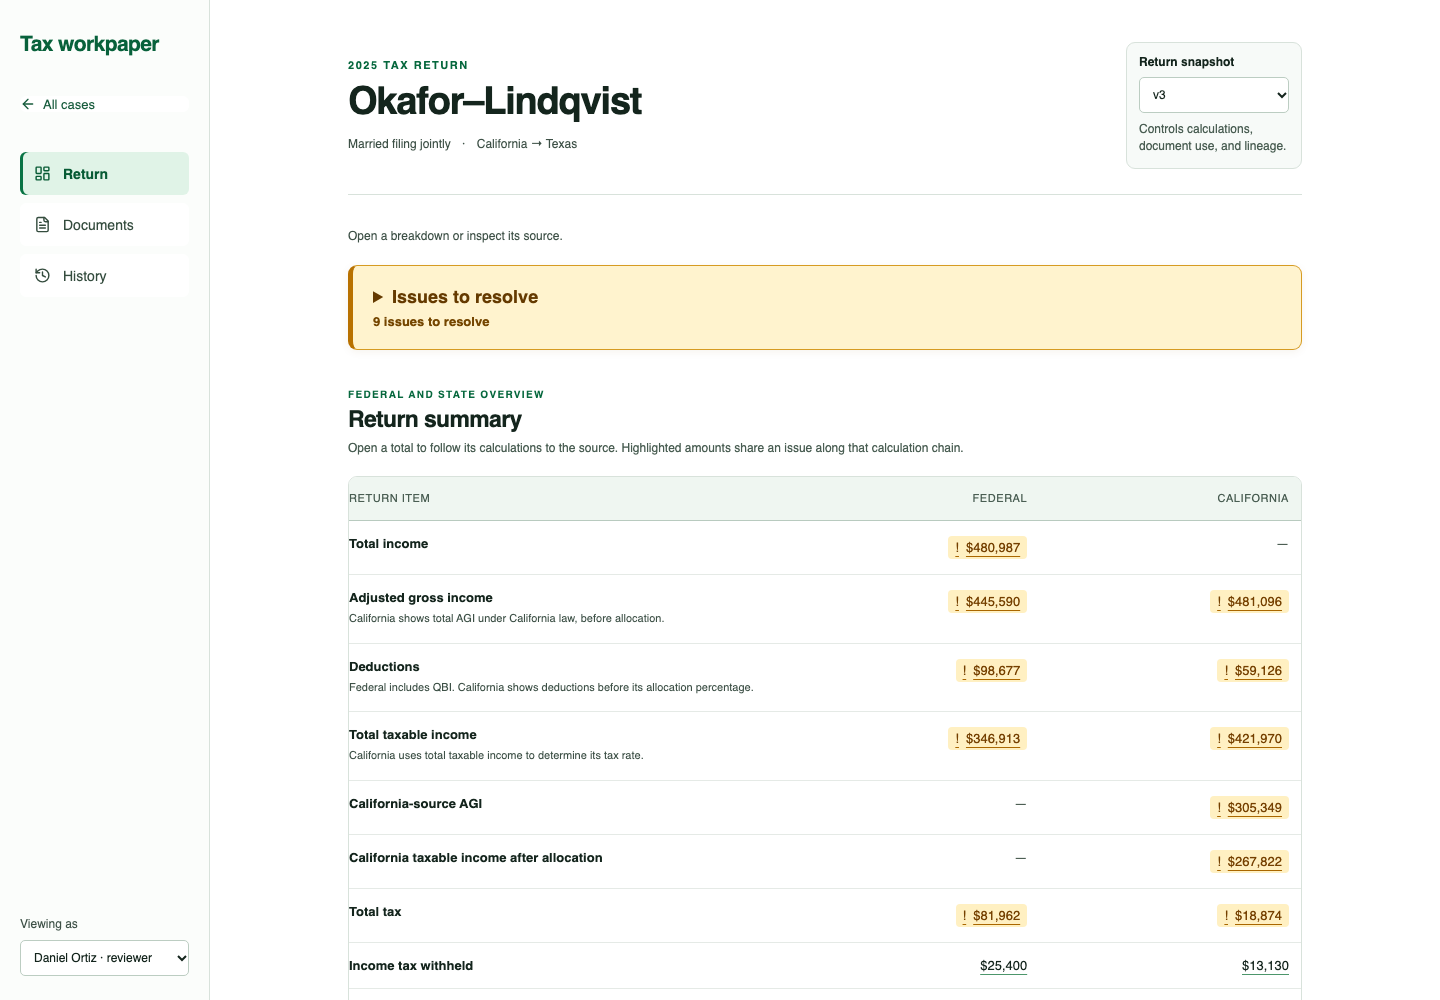
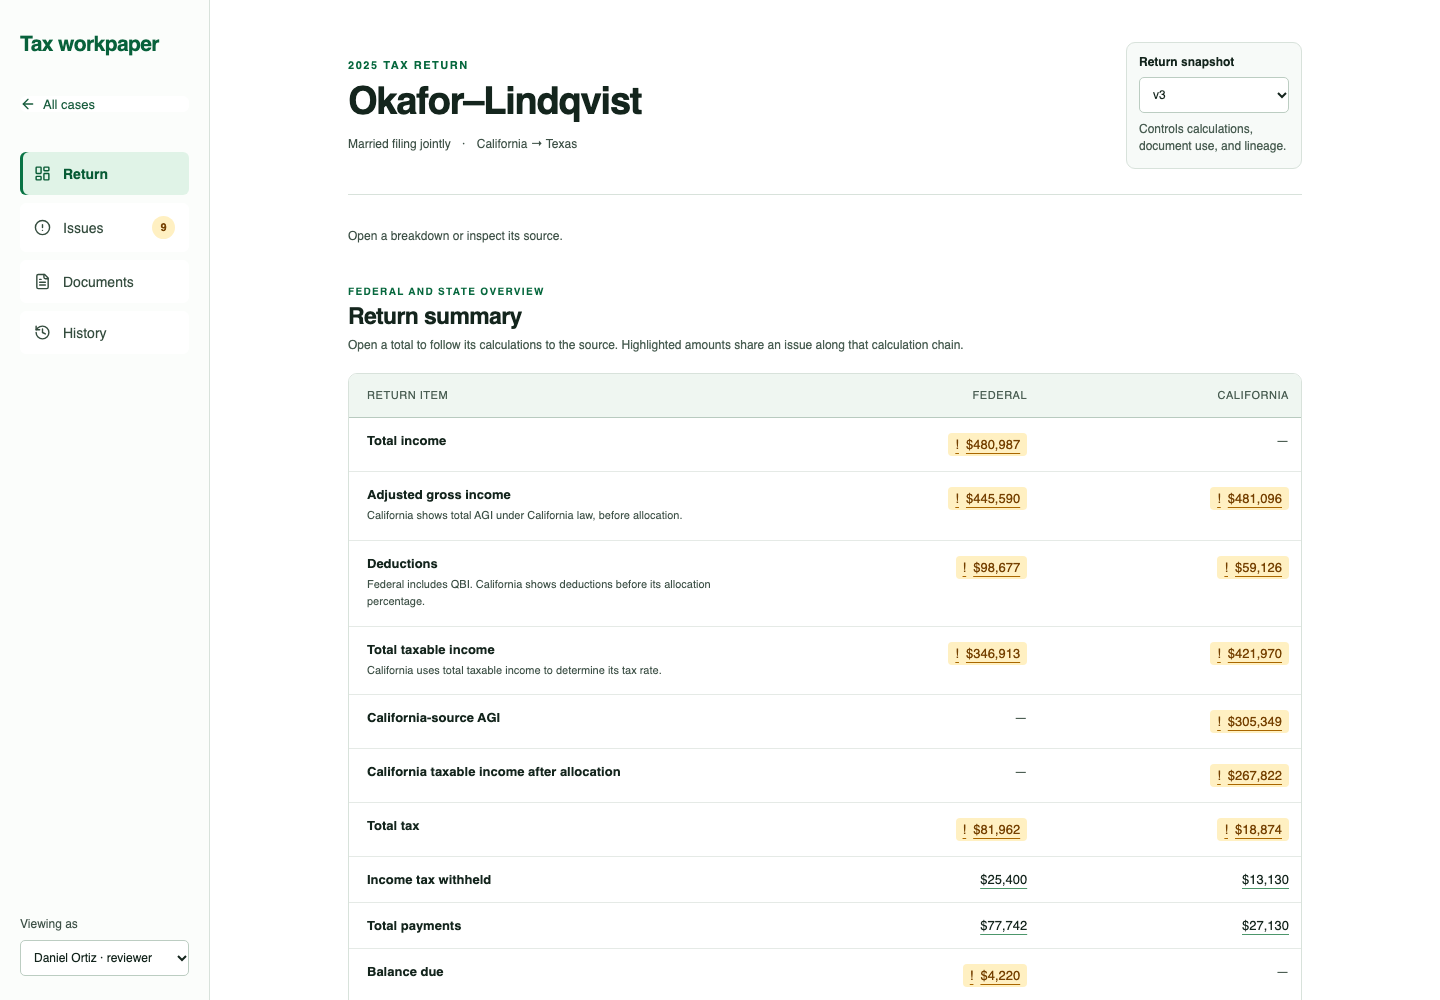
feat: move review issues into workspace tab

diff --git a/src/App.tsx b/src/App.tsx
@@ -15,6 +15,7 @@ import {
   FileText,
   History as HistoryIcon,
   LayoutDashboard,
+  CircleAlert,
 } from 'lucide-react';
 import { createGraph, packet, resolveReference } from './domain/packet';
 import { findIssues, type Finding } from './domain/findings';
@@ -183,6 +184,27 @@ export default function App() {
     ? graph.documents.get(value?.document_id ?? evidence.ref)
     : undefined;
   const activeFlags = current.filter((e) => e.kind === 'flag');
+  const issueItems: Finding[] = [
+    ...findings,
+    ...current
+      .filter((e) => e.kind === 'adjust')
+      .map((f) => ({
+        id: f.id,
+        title: `Correction proposal: ${referenceLabel(graph, f.target)}`,
+        detail: f.note,
+        refs: [f.target],
+        origin: 'Correction proposal',
+        severity: 'warning' as const,
+      })),
+    ...activeFlags.map((f) => ({
+      id: f.id,
+      title: f.note,
+      detail: f.note,
+      refs: [f.target],
+      origin: 'Reviewer flag',
+      severity: 'warning' as const,
+    })),
+  ];
   const showCases = () => {
     setEvidence(null);
     setAction(null);
@@ -223,7 +245,7 @@ export default function App() {
           All cases
         </button>
         <nav aria-label="Workspace">
-          {['Return', 'Documents', 'History'].map((name) => (
+          {['Return', 'Issues', 'Documents', 'History'].map((name) => (
             <button
               key={name}
               aria-current={tab === name ? 'page' : undefined}
@@ -234,12 +256,22 @@ export default function App() {
             >
               {name === 'Return' ? (
                 <LayoutDashboard size={17} />
+              ) : name === 'Issues' ? (
+                <CircleAlert size={17} />
               ) : name === 'Documents' ? (
                 <FileText size={17} />
               ) : (
                 <HistoryIcon size={17} />
               )}
-              {name}
+              <span>{name}</span>
+              {name === 'Issues' && approval.blockers > 0 && (
+                <span
+                  className="nav-count"
+                  aria-label={`${approval.blockers} issues to resolve`}
+                >
+                  {approval.blockers}
+                </span>
+              )}
             </button>
           ))}
         </nav>
@@ -303,42 +335,6 @@ export default function App() {
             <div className="return-intro">
               <p>Open a breakdown or inspect its source.</p>
             </div>
-            <details
-              className={`issues-section ${approval.blockers > 0 ? 'has-issues' : ''}`}
-            >
-              <summary>
-                <strong>Issues to resolve</strong>{' '}
-                <span>
-                  {approval.blockers}{' '}
-                  {approval.blockers === 1 ? 'issue' : 'issues'} to resolve
-                </span>
-              </summary>
-              <Exceptions
-                findings={[
-                  ...findings,
-                  ...current
-                    .filter((e) => e.kind === 'adjust')
-                    .map((f) => ({
-                      id: f.id,
-                      title: `Correction proposal: ${referenceLabel(graph, f.target)}`,
-                      detail: f.note,
-                      refs: [f.target],
-                      origin: 'Correction proposal',
-                      severity: 'warning' as const,
-                    })),
-                  ...activeFlags.map((f) => ({
-                    id: f.id,
-                    title: f.note,
-                    detail: f.note,
-                    refs: [f.target],
-                    origin: 'Reviewer flag',
-                    severity: 'warning' as const,
-                  })),
-                ]}
-                resolved={resolved}
-                onNavigate={navigateIssue}
-              />
-            </details>
             <ReturnSummary
               key={version}
               {...tree}
@@ -435,6 +431,34 @@ export default function App() {
               </p>
             </section>
           </div>
+          {tab === 'Issues' && (
+            <section className="workspace-section issues-workspace">
+              <header className="section-heading">
+                <div>
+                  <span className="section-kicker">Review queue</span>
+                  <h2>Issues to resolve</h2>
+                  <p>
+                    Select an issue to open its affected calculation and source
+                    in the Return tab.
+                  </p>
+                </div>
+                <span
+                  className={`issue-total ${approval.blockers > 0 ? 'has-issues' : ''}`}
+                  role="status"
+                >
+                  {approval.blockers}{' '}
+                  {approval.blockers === 1 ? 'issue' : 'issues'} to resolve
+                </span>
+              </header>
+              <div className="issues-list-panel">
+                <Exceptions
+                  findings={issueItems}
+                  resolved={resolved}
+                  onNavigate={navigateIssue}
+                />
+              </div>
+            </section>
+          )}
           {tab === 'Documents' && (
             <section className="workspace-section documents-section">
               <div className="section-heading">

diff --git a/tests/browser/review.spec.ts b/tests/browser/review.spec.ts
@@ -15,9 +15,7 @@ async function income(page: Page) {
     .click();
 }
 async function issue(page: Page, id: string) {
-  const banner = page.locator('.issues-section');
-  if (!((await banner.getAttribute('open')) !== null))
-    await banner.locator(':scope > summary').click();
+  await page.getByRole('button', { name: /^Issues/ }).click();
   await page.locator(`[data-finding-id="${id}"]`).click();
 }
 
@@ -76,6 +74,7 @@ test('records a correction proposal and persists it independently of engine tota
   await expect(
     page.getByRole('button', { name: 'Sign off return', exact: true }),
   ).toBeDisabled();
+  await page.getByRole('button', { name: /^Issues/ }).click();
   await page
     .locator('.finding-link')
     .filter({ hasText: 'Correction proposal:' })
@@ -136,9 +135,9 @@ test('final sign-off persists and reopens when a note changes the review snapsho
   page,
 }) => {
   await openCase(page);
-  await page.locator('.issues-section > summary').click();
+  await page.getByRole('button', { name: /^Issues/ }).click();
   const ids = await page
-    .locator('.finding-link[data-severity="warning"]')
+    .locator('.issues-list-panel .finding-link[data-severity="warning"]')
     .evaluateAll((els) =>
       els.map((el) => (el as HTMLElement).dataset.findingId!),
     );
@@ -240,19 +239,26 @@ test('resizes evidence with pointer and keyboard and keeps mobile full width', a
   await expect(panel).toHaveCSS('width', '390px');
 });
 
-test('issue banner contains links only, opens the summary chain and scrolls to its source', async ({
+test('issue tab contains links only, opens the return chain and scrolls to its source', async ({
   page,
 }) => {
   await openCase(page);
   await expect(
     page.getByRole('button', { name: 'Inspect Federal Adjusted gross income' }),
   ).toHaveClass(/amount-issue-upstream/);
-  await issue(page, 'duplicate-sweep');
+  await page.getByRole('button', { name: /^Issues/ }).click();
   await expect(
     page.locator(
-      '.issues-section textarea, .issues-section .calculation, .issues-section details',
+      '.issues-list-panel textarea, .issues-list-panel .calculation, .issues-list-panel details',
     ),
   ).toHaveCount(0);
+  await expect(
+    page.getByRole('heading', { name: 'Issues to resolve' }),
+  ).toBeVisible();
+  await page.locator('[data-finding-id="duplicate-sweep"]').click();
+  await expect(
+    page.getByRole('button', { name: 'Return', exact: true }),
+  ).toHaveAttribute('aria-current', 'page');
   const source = page.locator('.schedule-breakdown [data-reference="ev-0492"]');
   await expect(source).toBeFocused();
   await expect(source).toBeInViewport();
@@ -263,7 +269,9 @@ test('issue banner contains links only, opens the summary chain and scrolls to i
   await expect(
     page.locator('.schedule-breakdown .calculation .calculation'),
   ).toHaveCount(0);
-  await expect(page.locator('.issues-section .finding-content')).toHaveCount(0);
+  await expect(page.locator('.issues-list-panel .finding-content')).toHaveCount(
+    0,
+  );
   await page.locator('.issue-references button').nth(1).click();
   await expect(
     page.locator('.schedule-breakdown [data-reference="ev-0538"]'),

diff --git a/src/styles.css b/src/styles.css
@@ -166,6 +166,26 @@ nav button[aria-current='page'] {
   box-shadow: inset 3px 0 #087344;
   font-weight: 700;
 }
+nav button > span:not(.nav-count) {
+  flex: 1;
+  text-align: left;
+}
+.nav-count {
+  min-width: 23px;
+  height: 23px;
+  padding: 0 7px;
+  display: inline-flex;
+  align-items: center;
+  justify-content: center;
+  border-radius: 999px;
+  background: #fff0c2;
+  color: #754000;
+  font-size: 11px;
+  font-weight: 700;
+}
+nav button[aria-current='page'] .nav-count {
+  background: #ffe197;
+}
 .staff-selector {
   margin-top: auto;
   display: grid;
@@ -1038,12 +1058,14 @@ mark {
     font-size: 22px;
   }
   nav {
-    flex-direction: row;
+    display: grid;
+    grid-template-columns: repeat(2, minmax(0, 1fr));
     gap: 8px;
   }
   nav button {
     padding: 10px;
     font-size: 13px;
+    min-width: 0;
   }
   nav button svg {
     width: 15px;
@@ -1405,7 +1427,7 @@ textarea::placeholder {
 }
 .schedule-table th:first-child {
   width: 45%;
-  padding-left: 0;
+  padding-left: 18px;
 }
 .schedule-table tfoot th,
 .schedule-table tfoot td {
@@ -1511,6 +1533,7 @@ textarea::placeholder {
   }
   .schedule-table th:first-child {
     min-width: 210px;
+    padding-left: 14px;
   }
 }
 .schedule-amount.is-selected {
@@ -1726,6 +1749,45 @@ textarea::placeholder {
 }
 .finding-link:hover {
   background: #ffe8a7;
+}
+.issues-workspace .section-heading {
+  padding-bottom: 20px;
+  border-bottom: 1px solid var(--line);
+}
+.issue-total {
+  flex-shrink: 0;
+  padding: 9px 12px;
+  border: 1px solid var(--line);
+  border-radius: 999px;
+  color: var(--ink-soft);
+  background: var(--surface);
+  font-size: 12px;
+  font-weight: 700;
+}
+.issue-total.has-issues {
+  border-color: #d69b22;
+  color: #754000;
+  background: #fff0c2;
+}
+.issues-list-panel {
+  overflow: hidden;
+  border: 1px solid var(--line);
+  border-radius: 9px;
+  background: white;
+}
+.issues-list-panel .finding-link {
+  padding: 16px 18px;
+  border-top-color: var(--line);
+  color: var(--ink);
+}
+.issues-list-panel .finding-link:first-child {
+  border-top: 0;
+}
+.issues-list-panel .finding-link:hover {
+  background: #fff8e7;
+}
+.issues-list-panel .finding-link small {
+  color: #754000;
 }
 .issue-context {
   padding: 14px;

diff --git a/docs/DECISIONS.md b/docs/DECISIONS.md
@@ -10,7 +10,7 @@ The sections below describe the current implementation. The dated decision recor
 
 Return contains one unified summary: federal/California totals, focused supporting calculations and related return records. Documents and History remain secondary tools in the left sidebar. The canvas is white with dark text, green controls, and amber issues. Source evidence stays beside the calculation in a resizable panel on desktop and a full-width bottom panel on mobile.
 
-The issues banner contains direct links, not nested calculations or forms. Clicking an issue finds its actual dependency path, reveals the path within Summary, and smoothly scrolls to the source. Reduced-motion preferences use immediate scrolling. Assignment and resolution are available beside that calculation. Correction proposals remain proposals and link to History for withdrawal; they cannot be resolved into an invented engine result.
+The Issues tab contains direct links, not nested calculations or forms. Clicking an issue switches to Return, finds its actual dependency path, reveals the path within Summary, and smoothly scrolls to the source. Reduced-motion preferences use immediate scrolling. Assignment and resolution are available beside that calculation. Correction proposals remain proposals and link to History for withdrawal; they cannot be resolved into an invented engine result.
 
 Highlights follow the source and affected downstream amounts. Unrelated inputs remain unhighlighted. Highlighting indicates a dependency on an unresolved issue, not proof that every highlighted value is incorrect. Resolved findings are excluded, while active reviewer flags remain included.
 
@@ -95,7 +95,7 @@ The initial entries were reconstructed from the project conversation on 2026-10-
 ### D05 — Issue navigation and affected-chain highlighting
 
 - **Recorded:** 2026-10-17. **Status:** Implemented. Current reference: `1e4048a`.
-- **Decision:** The banner contains issue links only. A link reveals the actual calculation path in Summary and visibly scrolls to the source. Assignment and resolution appear beside the linked calculation. Highlight affected downstream amounts as well as the source.
+- **Decision:** Issue links reveal the actual calculation path in Summary and visibly scroll to the source. Assignment and resolution appear beside the linked calculation. Highlight affected downstream amounts as well as the source. The original banner placement was superseded by D15.
 - **Reason:** Users need both the originating issue and its consequences to be apparent in the overview, without opening more content beneath the banner.
 - **Tradeoff:** Multiple totals can be highlighted by the same issue; highlighting signals dependency, not multiple independent errors. Unrelated inputs are not highlighted.
 - **Superseded direction:** Source-only highlighting was explicitly requested and implemented in `7c8bb76`. The user subsequently reversed that preference and requested full-chain highlighting. That earlier implementation is not the current design.
@@ -203,3 +203,11 @@ Proposed implementation and acceptance criteria:
 - **Reason:** Similar sizes and weights made headings, subheadings, and controls compete. Reviewers need to scan the case, find issues, interpret totals, and then inspect detail in that order.
 - **Tradeoff:** Additional borders and surfaces make sections more explicit but slightly denser. Color remains secondary to size, weight, spacing, and borders so hierarchy survives grayscale and supports accessibility.
 - **Boundary:** This is a presentation change. It does not alter packet values, summary mappings, role behavior, document lineage, or review records.
+
+### D15 — Move issues into a dedicated workspace tab
+
+- **Recorded:** 2026-10-18. **Status:** Implemented at the user's request; supersedes the Return-page issue banner placement in D05.
+- **Decision:** Add Issues to the left navigation with the live blocking count. Keep the issue list limited to navigation and status. Selecting an item switches to Return, opens the supplied dependency path, scrolls to and focuses the referenced source, and leaves decision/assignment controls beside the affected calculation.
+- **Reason:** Issues are a primary review queue and deserve a stable destination. Removing the banner also makes the Return page start directly with the summary while preserving the issue-to-source workflow.
+- **Tradeoff:** The unresolved list and affected totals are no longer visible on the same screen. The navigation badge preserves awareness of outstanding work, and a single selection returns the reviewer to the exact calculation context.
+- **Table spacing:** Add explicit left padding to the Return item column on desktop and mobile so labels do not touch the table border.

diff --git a/README.md b/README.md
@@ -31,7 +31,7 @@ npm run format:check  # Repository formatting
 
 1. Open the supplied household from **Cases**, where the badge shows its latest-version **issues to resolve**. On **Return**, compare federal and California totals in the unified summary.
 2. Select federal **Total income**, then the Corvane W-2 source link under wages. The evidence panel highlights `104,600.00` while the calculation stays visible. No verification action is required.
-3. Open **Issues to resolve** and select **Same bank sweep interest counted twice**. Summary opens the calculation path and smoothly scrolls to the source. Both source amounts and affected totals are highlighted.
+3. Open **Issues** in the left navigation and select **Same bank sweep interest counted twice**. Return opens the calculation path and smoothly scrolls to the source. Both source amounts and affected totals are highlighted.
 4. Use **Decision & assignment** beside the linked calculation to record a disposition. To propose a correction, search Summary for `SchB.1.2` and choose **… → Propose correction**. Enter $0, category `interest`, and a rationale. Estimated effects appear; engine totals remain unchanged.
 5. Reload, reopen the case, and visit **History** to inspect the proposal, compare snapshots, view precomputed alternatives, or undo your own action. Export history for a portable record.
 6. Final review sign-off is available to a reviewer or partner only after blocking warnings, manual flags, and correction proposals are cleared. Subsequent review events reopen it. This is a local review acknowledgment, not an e-signature or filing approval.
@@ -42,7 +42,7 @@ npm run format:check  # Repository formatting
 - A Cases landing page with live issue counts for the supplied household and an All cases navigation link.
 - One white-background Return workspace with selective calculation breakdowns; Documents and History are secondary tools in the left sidebar.
 - Focused calculation statements with aligned inputs and results. Selecting an input replaces the detail in place; a review trail returns to earlier contexts. Same-form related records stay separate from arithmetic inputs.
-- The issue banner contains direct links only. Selecting an issue reveals its real dependency path in Summary, focuses the source, and scrolls smoothly (or instantly with reduced motion). Highlighting follows the affected chain without flagging unrelated inputs. Assignment and resolution are contextual, beside the linked calculation.
+- The Issues tab contains direct links only. Selecting an issue switches to Return, reveals its real dependency path, focuses the source, and scrolls smoothly (or instantly with reduced motion). Highlighting follows the affected chain without flagging unrelated inputs. Assignment and resolution are contextual, beside the linked calculation.
 - Evidence displayed in a resizable panel beside the calculation on desktop and in a bottom panel on mobile; other document fields and reverse usage are collapsed by default.
 - Search across all 627 current-version lines; large input lists load in batches with filtering.
 - No routine verification forms: contextual flag, note, and correction actions open only on request. Existing verification records remain in history.

diff --git a/docs/ARCHITECTURE.md b/docs/ARCHITECTURE.md
@@ -37,4 +37,4 @@ Exception forms mount on request. Final sign-off is one version-scoped event; un
 
 `calculationPresentation` removes redundant single-input steps only for explicit `R-CARRY` and `R-SUM` rules when the input amount is unchanged and the wrapper has no direct sources. Equal amounts alone are insufficient. Every skipped line, rule, and note remains available in the details menu, and review events attached to any line in the chain remain visible.
 
-The unified `ReturnSummary` owns federal/California totals and additional records. `summaryLocation` finds a path along the packet's actual dependency edges; `CalculationTree` selects the final calculation on that path and enough source rows to include the target. Scrolling follows that selection, respects reduced-motion preferences, and moves keyboard focus to the referenced source. Highlights follow reverse consumer edges into affected totals without coloring unrelated inputs. Records outside the totals' dependency graph remain in the Related return records index and are also linked from calculations with the same supplied form, preserving access without inventing arithmetic dependencies. The issues banner is a list of navigation links; `IssueReview` renders assignment and resolution beside the selected calculation.
+The unified `ReturnSummary` owns federal/California totals and additional records. `summaryLocation` finds a path along the packet's actual dependency edges; `CalculationTree` selects the final calculation on that path and enough source rows to include the target. Scrolling follows that selection, respects reduced-motion preferences, and moves keyboard focus to the referenced source. Highlights follow reverse consumer edges into affected totals without coloring unrelated inputs. Records outside the totals' dependency graph remain in the Related return records index and are also linked from calculations with the same supplied form, preserving access without inventing arithmetic dependencies. The Issues tab is a list of navigation links; selecting one switches to Return, and `IssueReview` renders assignment and resolution beside the selected calculation.
